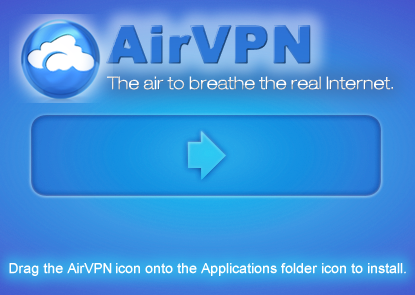
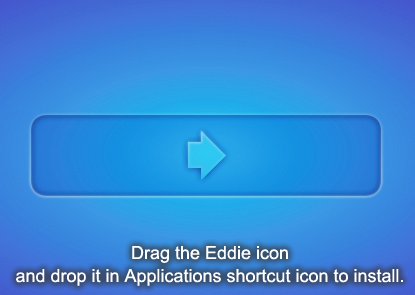
2.12.4 macOS

Changed region(s): [[0.0, 0.0305, 0.9542, 0.3661], [0.0, 0.7932, 1.0, 1.0]]

diff --git a/repository/src/Deploy/Program.cs b/repository/src/Deploy/Program.cs
@@ -234,8 +234,8 @@ namespace Deploy
 				ListPackages.Add(new Package("macos", "x64", "ui", true, 4, "portable"));
 				ListPackages.Add(new Package("macos", "x64", "ui", true, 4, "installer"));
 				ListPackages.Add(new Package("macos", "x64", "ui", true, 4, "disk"));
-				ListPackages.Add(new Package("macos", "x64", "cli", true, 4, "portable"));
 				ListPackages.Add(new Package("macos", "x64", "cli", true, 4, "mono"));
+				ListPackages.Add(new Package("macos", "x64", "cli", true, 4, "portable"));
 			}
 			
             if (SO == "linux")
@@ -635,12 +635,46 @@ namespace Deploy
 							pathRelease = pathRelease.Replace("/x64/Release/", "/Release/");
 							pathRelease = pathRelease.Replace("/src/bin/", "/src/CLI.Osx/bin/");
 
-							CopyFile(pathRelease, "eddie-cli", pathTemp, "eddie-cli");
+							//CopyFile(pathRelease, "eddie-cli", pathTemp, "eddie-cli");
 
 							string pathFinal = NormalizePath(PathBaseRepository + "/" + fileName + ".tar.gz");
 
 							if (File.Exists(pathFinal))
 								File.Delete(pathFinal);
+
+							{
+								// Tested with Xamarin Studio 6.1.2 build 44, Mono 4.6.2, macOS Sierra 10.12.1
+
+								string cmd = "";
+
+								// Ensure it can find pkg-config:
+								cmd += "export PKG_CONFIG_PATH=$PKG_CONFIG_PATH:/usr/lib/pkgconfig:/Library/Frameworks/Mono.framework/Versions/Current/lib/pkgconfig;";
+
+								// Force 32bit build and manually set some clang linker properties:
+								cmd += "export AS=\"as -arch i386\";";
+								cmd += "export CC=\"cc -arch i386 -lobjc -liconv -framework CoreFoundation -I /Library/Frameworks/Mono.framework/Versions/Current/include/mono-2.0/\";";
+
+								// Force 64bit build and manually set some clang linker properties:
+								// export AS="as -arch x86_64"
+								// export CC="cc -arch x86_64 -lobjc -liconv -framework CoreFoundation -I /Library/Frameworks/Mono.framework/Versions/Current/include/mono-2.0/"
+
+								// Other ensure it can find pig-config
+								cmd += "export PATH=/Library/Frameworks/Mono.framework/Versions/Current/bin/:$PATH;";
+
+								// WARNING: Currently 2017-03-10 , cannot be signed for this bug: https://bugzilla.xamarin.com/show_bug.cgi?id=52443
+								cmd += "mkbundle";
+								cmd += " --sdk /Library/Frameworks/Mono.framework/Versions/Current";
+								cmd += " \"" + pathRelease + "/CLI.Osx.exe\"";
+								cmd += " \"" + pathRelease + "/Lib.Common.dll\"";
+								cmd += " \"" + pathRelease + "/Lib.Core.dll\"";
+								cmd += " \"" + pathRelease + "/Platforms.Osx.dll\"";
+								cmd += " -z";
+								cmd += " --static";
+								cmd += " --deps";
+								cmd += " -o \"" + pathTemp + "/eddie-cli\"";
+
+								Shell(cmd);
+							}
 
 							Shell("chmod 755 \"" + pathTemp + "/eddie-cli\"");
 							Shell("chmod 755 \"" + pathTemp + "/openvpn\"");
@@ -665,39 +699,37 @@ namespace Deploy
 							pathRelease = pathRelease.Replace("/x64/Release/", "/Release/");
 							pathRelease = pathRelease.Replace("/src/bin/", "/src/UI.Cocoa.Osx/bin/");
 
+							CreateDirectory(pathTemp + "/Eddie.app");
+							CopyDirectory(pathRelease + "Eddie.app", pathTemp + "/Eddie.app");
+
 							// TAR.GZ
 							string pathFinal = NormalizePath(PathBaseRepository + "/" + fileName + ".tar.gz");
 
 							if (File.Exists(pathFinal))
 								File.Delete(pathFinal);
 
-							MoveFile(pathTemp + "/openvpn", pathRelease + "/Eddie.app/Contents/MacOS/openvpn");
-							MoveFile(pathTemp + "/stunnel", pathRelease + "/Eddie.app/Contents/MacOS/stunnel");
-							MoveFile(pathTemp + "/cacert.pem", pathRelease + "/Eddie.app/Contents/Resources/cacert.pem");
+							CopyFile(PathBaseResources + "/macos/Info.plist", pathTemp + "/Eddie.app/Contents/Info.plist");
+							ReplaceInFile(pathTemp + "/Eddie.app/Contents/Info.plist", "{@version}", versionString3);
 
-                            //SignSingleFile(platform, pathRelease + "/Eddie.app/Contents/MonoBundle/libMonoPosixHelper.dylib");
-							SignFile(platform, format, pathRelease + "/Eddie.app/Contents/MacOS/Eddie");
-                            SignFile(platform, format, pathRelease + "/Eddie.app/Contents/MacOS/openvpn");
-                            SignFile(platform, format, pathRelease + "/Eddie.app/Contents/MacOS/stunnel");
-                            SignFile(platform, format, pathRelease + "/Eddie.app");
+							MoveFile(pathTemp + "/openvpn", pathTemp + "/Eddie.app/Contents/MacOS/openvpn");
+							MoveFile(pathTemp + "/stunnel", pathTemp + "/Eddie.app/Contents/MacOS/stunnel");
+							MoveFile(pathTemp + "/cacert.pem", pathTemp + "/Eddie.app/Contents/Resources/cacert.pem");
 
-							string command2 = "cd \"" + pathRelease + "\" && tar cvfz \"" + pathFinal + "\" " + " Eddie.app";
+							RemoveFile(pathTemp + "/Eddie.app/Contents/MacOS/dev.txt");
+
+                            //SignSingleFile(platform, pathTemp + "/Eddie.app/Contents/MonoBundle/libMonoPosixHelper.dylib");
+							SignFile(platform, format, pathTemp + "/Eddie.app/Contents/MacOS/Eddie");
+                            SignFile(platform, format, pathTemp + "/Eddie.app/Contents/MacOS/openvpn");
+                            SignFile(platform, format, pathTemp + "/Eddie.app/Contents/MacOS/stunnel");
+                            SignFile(platform, format, pathTemp + "/Eddie.app");
+
+							string command2 = "cd \"" + pathTemp + "\" && tar cvfz \"" + pathFinal + "\" " + " Eddie.app";
 							Shell(command2);
 						}
 
 					}
 					else if (format == "installer")
 					{
-						/*
-						pathRelease = pathRelease.Replace("/x64/Release/", "/Release/");
-						pathRelease = pathRelease.Replace("/src/bin/", "/src/UI.Cocoa.Osx/bin/");
-
-						string pathFinal = NormalizePath(PathBaseRepository + "/" + fileName + ".pkg");
-
-						Shell ("cp " + pathRelease + "/*.pkg " + pathFinal);
-
-                        SignFile(platform, format, pathFinal);
-						*/
 						if (ui == "ui")
 						{
 							pathRelease = pathRelease.Replace("/x64/Release/", "/Release/");
@@ -712,9 +744,14 @@ namespace Deploy
 							if (File.Exists(pathFinal))
 								File.Delete(pathFinal);
 
+							CopyFile(PathBaseResources + "/macos/Info.plist", pathTemp + "/Applications/Eddie.app/Contents/Info.plist");
+							ReplaceInFile(pathTemp + "/Applications/Eddie.app/Contents/Info.plist", "{@version}", versionString3);
+
 							MoveFile(pathTemp + "/openvpn", pathTemp + "/Applications/Eddie.app/Contents/MacOS/openvpn");
 							MoveFile(pathTemp + "/stunnel", pathTemp + "/Applications/Eddie.app/Contents/MacOS/stunnel");
 							MoveFile(pathTemp + "/cacert.pem", pathTemp + "/Applications/Eddie.app/Contents/Resources/cacert.pem");
+
+							RemoveFile(pathTemp + "/Applications/Eddie.app/Contents/MacOS/dev.txt");
 
 							//SignSingleFile(platform, pathRelease + "Eddie.app/Contents/MonoBundle/libMonoPosixHelper.dylib");
 							SignFile(platform, format, pathTemp + "/Applications/Eddie.app/Contents/MacOS/Eddie");
@@ -750,14 +787,14 @@ namespace Deploy
 							pathRelease = pathRelease.Replace("/src/bin/", "/src/UI.Cocoa.Osx/bin/");
 
 							Log("Copy DMG base");
-							CopyFile(PathBaseResources + "/macos/diskbase.dmg", pathTemp + "temp.dmg");
+							CopyFile(PathBaseResources + "/macos/diskbase.dmg", pathTemp + "/temp.dmg");
 							Log("Resize DMG");
-							Shell("hdiutil resize -size 200m '" + pathTemp + "temp.dmg" + "'");
+							Shell("hdiutil resize -size 200m '" + pathTemp + "/temp.dmg" + "'");
 							Log("Attach DMG");
-							Shell("hdiutil attach '" + pathTemp + "temp.dmg" + "' -mountpoint '" + pathTemp + "DiskBuild'");
+							Shell("hdiutil attach '" + pathTemp + "/temp.dmg" + "' -mountpoint '" + pathTemp + "/DiskBuild'");
 							Log("Fill DMG");
 
-							CreateDirectory(pathTemp + "DiskBuild/Eddie.app");
+							CreateDirectory(pathTemp + "/DiskBuild/Eddie.app");
 							CopyDirectory(pathRelease + "Eddie.app", pathTemp + "/DiskBuild/Eddie.app");
 
 							// TAR.GZ
@@ -766,9 +803,14 @@ namespace Deploy
 							if (File.Exists(pathFinal))
 								File.Delete(pathFinal);
 
+							CopyFile(PathBaseResources + "/macos/Info.plist", pathTemp + "/DiskBuild/Eddie.app/Contents/Info.plist");
+							ReplaceInFile(pathTemp + "/DiskBuild/Eddie.app/Contents/Info.plist", "{@version}", versionString3);
+
 							MoveFile(pathTemp + "/openvpn", pathTemp + "/DiskBuild/Eddie.app/Contents/MacOS/openvpn");
 							MoveFile(pathTemp + "/stunnel", pathTemp + "/DiskBuild/Eddie.app/Contents/MacOS/stunnel");
 							MoveFile(pathTemp + "/cacert.pem", pathTemp + "/DiskBuild/Eddie.app/Contents/Resources/cacert.pem");
+
+							RemoveFile(pathTemp + "/DiskBuild/Eddie.app/Contents/MacOS/dev.txt");
 
 							//SignSingleFile(platform, pathRelease + "Eddie.app/Contents/MonoBundle/libMonoPosixHelper.dylib");
 							SignFile(platform, format, pathTemp + "/DiskBuild/Eddie.app/Contents/MacOS/Eddie");
@@ -777,9 +819,9 @@ namespace Deploy
 							SignFile(platform, format, pathTemp + "/DiskBuild/Eddie.app");
 
 							Log("Detach DMG");
-							Shell("hdiurl detach '" + pathTemp + "/DiskBuild" + "'");
+							Shell("hdiutil detach \"" + pathTemp + "/DiskBuild" + "\"");
 							Log("Compress DMG");
-							Shell("hdiutil convert '" + pathTemp + "/temp.dmg" + "' -format UDCO -imagekey zlib-level=9 -o '" + pathFinal + "'");
+							Shell("hdiutil convert \"" + pathTemp + "/temp.dmg" + "\" -format UDCO -imagekey zlib-level=9 -o \"" + pathFinal + "\"");
 
 						}
 					}
@@ -1149,16 +1191,27 @@ namespace Deploy
         
         static void MoveFile(string fromFilePath, string toFilePath)
         {
+			fromFilePath = NormalizePath(fromFilePath);
+			toFilePath = NormalizePath(toFilePath);
             if (IsVerbose())
                 Log("Move file from '" + fromFilePath + "' to '" + toFilePath + "'");
-            File.Move(NormalizePath(fromFilePath), NormalizePath(toFilePath));
+			if (File.Exists(fromFilePath) == false)
+				throw new Exception("MoveFile failed, source don't exists: " + fromFilePath);
+			if (File.Exists(toFilePath))
+				File.Delete(toFilePath);
+            File.Move(fromFilePath, toFilePath);
         }
 
         static void CopyFile(string fromFilePath, string toFilePath)
 		{
-            if (IsVerbose())
+			fromFilePath = NormalizePath(fromFilePath);
+			toFilePath = NormalizePath(toFilePath);
+			if (IsVerbose())
                 Log("Copy file from '" + fromFilePath + "' to '" + toFilePath + "'");
-			File.Copy(NormalizePath(fromFilePath), NormalizePath(toFilePath), false);
+			if (File.Exists(toFilePath))
+				File.Delete(toFilePath);		
+				    
+			File.Copy(fromFilePath, toFilePath, false);
 		}
 
 		static void CopyFile(string fromPath, string fromFile, string toPath)
@@ -1230,7 +1283,11 @@ namespace Deploy
 
 			//Copy all the files & Replaces any files with the same name
 			foreach (string newPath in Directory.GetFiles(fromPath, "*.*", SearchOption.AllDirectories))
-				File.Copy(newPath, newPath.Replace(fromPath, toPath), true);
+			{
+				string fileFromPath = newPath;
+				string fileToPath = newPath.Replace(fromPath, toPath);
+				File.Copy(fileFromPath, fileToPath, true);
+			}
 		}
 
         public static string ExtractBetween(string str, string from, string to)

diff --git a/src/UI.Cocoa.Osx/Main.cs b/src/UI.Cocoa.Osx/Main.cs
@@ -40,6 +40,8 @@ namespace Eddie.UI.Cocoa.Osx
 			Core.ResourcesFiles.LoadString (Assembly.GetEntryAssembly (), "license.txt", "License.txt");
 			Core.ResourcesFiles.LoadString (Assembly.GetEntryAssembly (), "thirdparty.txt", "ThirdParty.txt");
 			Core.ResourcesFiles.LoadString (Assembly.GetEntryAssembly (), "tos.txt", "TOS.txt");
+			Core.ResourcesFiles.LoadString (Assembly.GetEntryAssembly (), "AirVPN.xml", "AirVPN.xml");
+			Core.ResourcesFiles.LoadString(Assembly.GetEntryAssembly(), "OpenVPN.xml", "OpenVPN.xml");
 
 			Core.ResourcesFiles.Count ();
 
